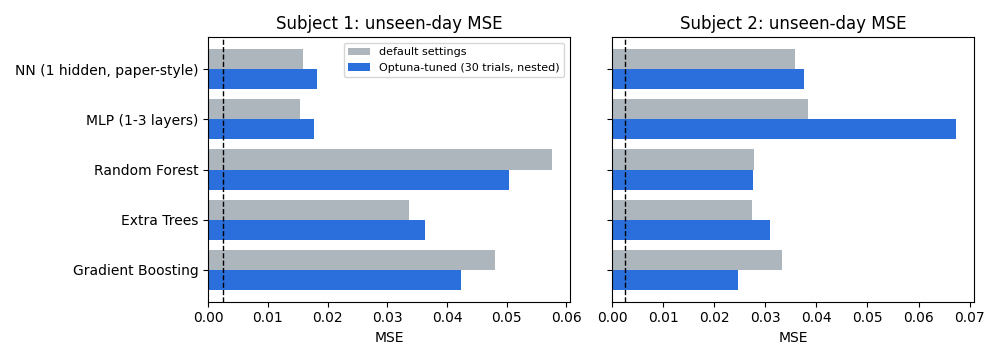
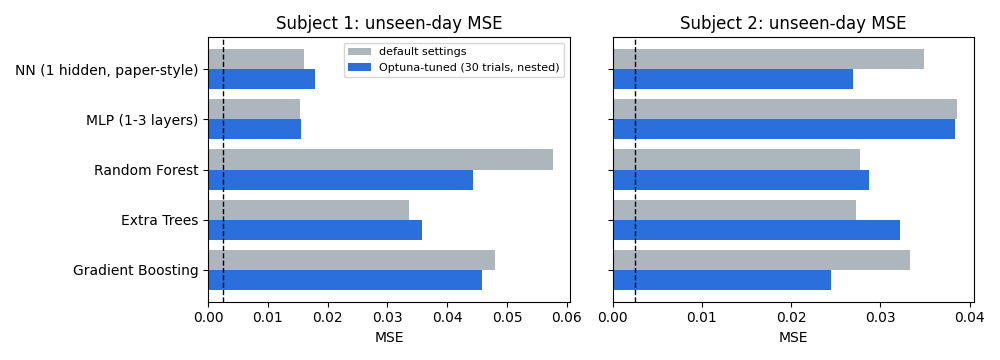
Add files via upload
Tuning fix: try defaults first, allow unlimited tree depth, seed-average the NN

diff --git a/src/tuning.py b/src/tuning.py
@@ -38,14 +38,17 @@ class OptunaTuned(BaseEstimator, RegressorMixin):
     build      function(params: dict) -> fresh estimator
     space      function(trial) -> params dict (uses trial.suggest_*)
     n_trials   Optuna trials per fit (per outer fold)
+    defaults   optional params dict tried as the FIRST trial, so on the training days
+               tuning can never end up worse than the default settings
     """
     needs_groups = True  # evaluation.evaluate passes training days as `groups`
 
-    def __init__(self, build, space, n_trials=30, seed=0):
+    def __init__(self, build, space, n_trials=30, seed=0, defaults=None):
         self.build = build
         self.space = space
         self.n_trials = n_trials
         self.seed = seed
+        self.defaults = defaults
 
     def _inner_splits(self, X, groups):
         if groups is not None and len(np.unique(groups)) >= 2:
@@ -66,9 +69,12 @@ class OptunaTuned(BaseEstimator, RegressorMixin):
 
         sampler = optuna.samplers.TPESampler(seed=self.seed)
         self.study_ = optuna.create_study(direction="minimize", sampler=sampler)
+        if self.defaults:
+            self.study_.enqueue_trial(self.defaults)
         self.study_.optimize(objective, n_trials=self.n_trials)
         self.best_params_ = self.study_.best_params
         self.best_inner_mse_ = self.study_.best_value
+        self.default_inner_mse_ = self.study_.trials[0].value if self.defaults else None
         self.model_ = self.build(self.best_params_).fit(X, y)
         return self
 
@@ -96,7 +102,7 @@ def space_nn_extended(t):
 
 def space_forest(t):
     return {"n_estimators": t.suggest_int("n_estimators", 100, 500, step=50),
-            "max_depth": t.suggest_int("max_depth", 3, 12),
+            "max_depth": t.suggest_categorical("max_depth", [None, 3, 5, 8, 12]),  # None = no limit
             "min_samples_leaf": t.suggest_int("min_samples_leaf", 1, 10),
             "max_features": t.suggest_categorical("max_features", ["sqrt", 0.33, 0.5, 1.0])}
 
@@ -109,22 +115,43 @@ def space_gb(t):
             "min_samples_leaf": t.suggest_int("min_samples_leaf", 1, 10)}
 
 
+# ------------------------------------------------------------------ seed averaging
+class SeedAveraged(BaseEstimator, RegressorMixin):
+    """Average the predictions of the same model trained with several random seeds.
+    Small networks on ~180 rows are unstable; averaging (plan: 'average several seeds')
+    makes both the tuning signal and the final predictions steadier."""
+
+    def __init__(self, make, n_seeds=3):
+        self.make = make          # function(seed) -> fresh estimator
+        self.n_seeds = n_seeds
+
+    def fit(self, X, y):
+        self.models_ = [self.make(s).fit(X, y) for s in range(self.n_seeds)]
+        return self
+
+    def predict(self, X):
+        return np.mean([m.predict(X) for m in self.models_], axis=0)
+
+
 # ------------------------------------------------------------------ reference builders
 # sklearn stand-ins so this file runs on its own. Swap in the PyTorch builders from
 # models_nn.py once they exist (same parameter names).
+NN_SEEDS = 3
+
+
 def build_nn_paper(p):
-    """Full-batch L-BFGS (closest sklearn analogue to MATLAB's trainbr); lr is unused by L-BFGS.
-    sklearn's alpha is summed over the batch, so it needs larger values than torch weight decay;
-    we rescale: alpha = weight_decay * 100."""
-    return make_pipeline(StandardScaler(), MLPRegressor(
+    """Full-batch L-BFGS (closest sklearn analogue to MATLAB's trainbr), averaged over NN_SEEDS seeds.
+    lr is unused by L-BFGS (it matters for the torch version). sklearn's alpha is summed over the
+    batch, so it needs larger values than torch weight decay: alpha = weight_decay * 100."""
+    return SeedAveraged(lambda s: make_pipeline(StandardScaler(), MLPRegressor(
         hidden_layer_sizes=(p["neurons"],), activation=p["activation"], alpha=p["weight_decay"] * 100,
-        max_iter=p["epochs"], solver="lbfgs", random_state=0))
+        max_iter=p["epochs"], solver="lbfgs", random_state=s)), NN_SEEDS)
 
 
 def build_nn_extended(p):  # sklearn MLP has no dropout; the torch version should use p["dropout"]
-    return make_pipeline(StandardScaler(), MLPRegressor(
+    return SeedAveraged(lambda s: make_pipeline(StandardScaler(), MLPRegressor(
         hidden_layer_sizes=(p["width"],) * p["layers"], activation=p["activation"], alpha=p["weight_decay"] * 100,
-        max_iter=p["epochs"], solver="lbfgs", random_state=0))
+        max_iter=p["epochs"], solver="lbfgs", random_state=s)), NN_SEEDS)
 
 
 def build_rf(p):
@@ -138,6 +165,16 @@ def build_et(p):
 def build_gb(p):
     return GradientBoostingRegressor(random_state=0, **p)
 
+
+# default settings: tried as trial 1 and used as the untuned baseline. All lie inside the spaces.
+DEFAULTS = {
+    "nn_paper": {"neurons": 3, "weight_decay": 0.01, "lr": 0.01, "epochs": 1000, "activation": "tanh"},
+    "nn_extended": {"layers": 2, "width": 16, "weight_decay": 0.01, "lr": 0.01, "epochs": 1000,
+                    "activation": "tanh", "dropout": 0.1},
+    "rf": {"n_estimators": 300, "max_depth": None, "min_samples_leaf": 1, "max_features": 1.0},
+    "et": {"n_estimators": 300, "max_depth": None, "min_samples_leaf": 1, "max_features": 1.0},
+    "gb": {"learning_rate": 0.1, "max_depth": 3, "n_estimators": 100, "subsample": 1.0, "min_samples_leaf": 1},
+}
 
 SPACES = {
     "nn_paper": space_nn_paper,
@@ -155,6 +192,7 @@ BUILDERS = {
 }
 
 
-def optuna_model(name, n_trials=30, seed=0, build=None):
+def optuna_model(name, n_trials=30, seed=0, build=None, start_from_defaults=True):
     """Factory for evaluate(..., protocol="nested"). Pass `build` to use a custom (e.g. torch) builder."""
-    return lambda: OptunaTuned(build or BUILDERS[name], SPACES[name], n_trials=n_trials, seed=seed)
+    d = DEFAULTS[name] if start_from_defaults else None
+    return lambda: OptunaTuned(build or BUILDERS[name], SPACES[name], n_trials=n_trials, seed=seed, defaults=d)

diff --git a/experiments/run_tuning.py b/experiments/run_tuning.py
@@ -23,7 +23,7 @@ import pandas as pd
 
 from data import SUBJECTS
 from evaluation import NOISE_FLOOR, evaluate
-from tuning import BUILDERS, optuna_model
+from tuning import BUILDERS, DEFAULTS, optuna_model
 
 RES = ROOT / "results" / "tuning"
 FIG = ROOT / "results" / "figures"
@@ -33,15 +33,6 @@ QUICK = "--quick" in sys.argv
 N_TRIALS = 8 if QUICK else 30
 FEATURES = "all"
 
-# untuned reference settings (sensible defaults, not tuned)
-DEFAULTS = {
-    "nn_paper": {"neurons": 3, "weight_decay": 0.01, "lr": 0.01, "epochs": 1000, "activation": "tanh"},
-    "nn_extended": {"layers": 2, "width": 16, "weight_decay": 0.01, "lr": 0.01, "epochs": 1000,
-                    "activation": "tanh", "dropout": 0.1},
-    "rf": {"n_estimators": 300, "max_depth": None, "min_samples_leaf": 1, "max_features": 1.0},
-    "et": {"n_estimators": 300, "max_depth": None, "min_samples_leaf": 1, "max_features": 1.0},
-    "gb": {"learning_rate": 0.1, "max_depth": 3, "n_estimators": 100, "subsample": 1.0, "min_samples_leaf": 1},
-}
 NAMES = {"nn_paper": "NN (1 hidden, paper-style)", "nn_extended": "MLP (1-3 layers)",
          "rf": "Random Forest", "et": "Extra Trees", "gb": "Gradient Boosting"}
 
